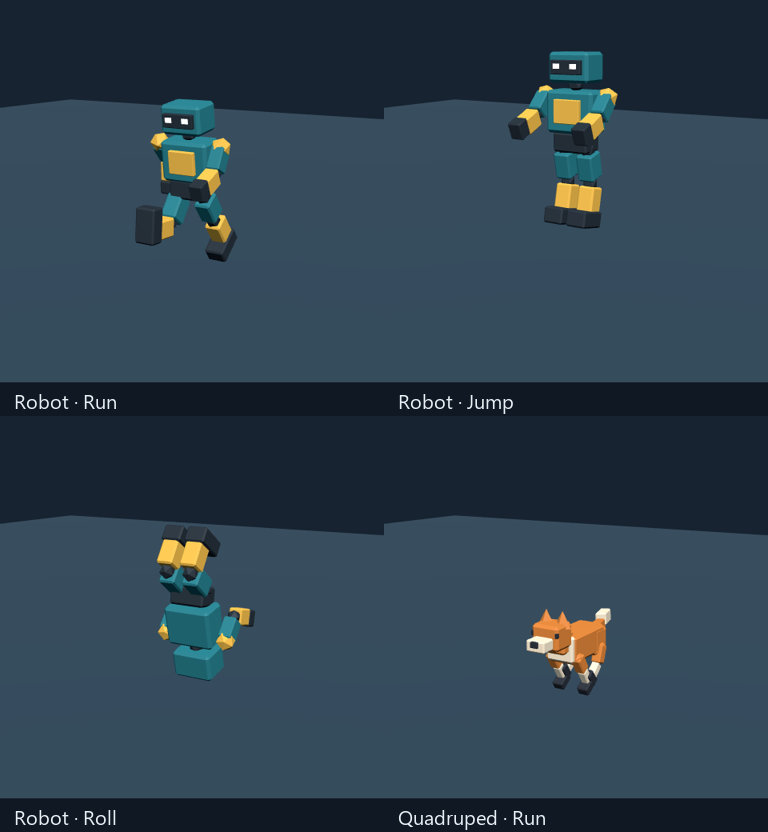
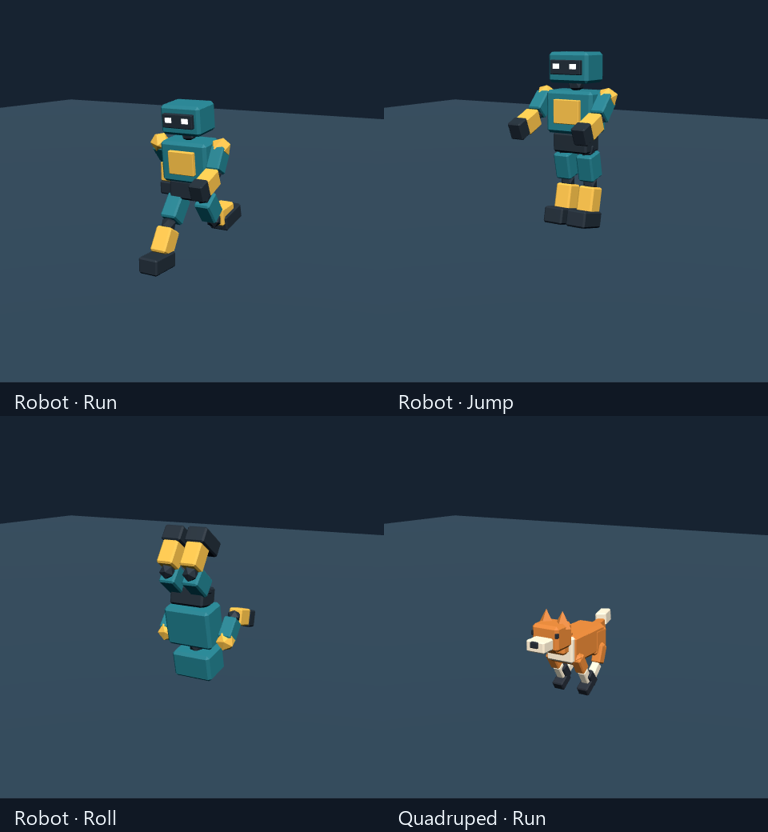
Fix robot gait knee flexion and ankle pitch (#2)

Changed region(s): [[0.1562, 0.2188, 0.3125, 0.3438]]

diff --git a/plugins/character-studio/skills/character-studio/scripts/build_robot.py b/plugins/character-studio/skills/character-studio/scripts/build_robot.py
@@ -196,8 +196,15 @@ def animate(rig, height):
                 rig.pose.bones['Spine'].rotation_euler.x = .12 if running else 0
                 for direction, side in ((1, 'L'), (-1, 'R')):
                     swing = direction * math.sin(phase)
-                    rig.pose.bones['UpperLeg.' + side].rotation_euler.x = (.70 if running else .40) * swing
-                    rig.pose.bones['LowerLeg.' + side].rotation_euler.x = -(1.05 if running else .48) * max(0, -swing)
+                    hip = (.70 if running else .40) * swing
+                    # These down-facing leg bones flex the knee backward at positive local X.
+                    # Recover the trailing heel; extend the leading leg without hyperextension.
+                    knee = (.12 if running else .06) + (.95 if running else .42) * max(0, swing)
+                    rig.pose.bones['UpperLeg.' + side].rotation_euler.x = hip
+                    rig.pose.bones['LowerLeg.' + side].rotation_euler.x = knee
+                    # The forward-facing foot bone has the opposite local X axis.
+                    # Counter the shin pitch, retaining a small toe-down recovery pose.
+                    rig.pose.bones['Foot.' + side].rotation_euler.x = hip + knee - (.25 if running else .10) * max(0, swing)
                     rig.pose.bones['UpperArm.' + side].rotation_euler.x = -(.65 if running else .28) * swing
                     rig.pose.bones['LowerArm.' + side].rotation_euler.x = -.70 if running else -.10
             elif name == 'Jump':

diff --git a/README.md b/README.md
@@ -23,7 +23,7 @@ codex plugin add character-studio@character-studio
 
 Start a new Codex chat after installation. If the skills are missing, restart the app. If your CLI supports marketplace registration but has no `plugin add` command, register the marketplace, then select **Character Studio — Community** in the app's Plugins Directory and install **Character Studio**.
 
-For a pinned release, register the marketplace with `--ref v0.3.0` instead of `--ref main`.
+For a pinned release, register the marketplace with `--ref v0.3.1` instead of `--ref main`.
 
 The marketplace layout and GitHub registration follow [OpenAI's plugin packaging documentation](https://developers.openai.com/plugins/build/plugins). GitHub distribution is separate from listing in OpenAI's public Plugins Directory.
 
@@ -92,12 +92,13 @@ This registers your checkout under the same community marketplace name. Edit `pl
 
 ## Validation
 
-Version 0.3.0 was tested on Windows with Blender 4.5.14 LTS and Three.js 0.186.1:
+Version 0.3.1 was tested on Windows with Blender 4.5.14 LTS and Three.js 0.186.1:
 
 - Both skills passed Codex's skill validator.
 - Robot GLB: 1,016 triangles, 16 bones, Idle/Walk/Run/Jump/Roll; zero Khronos glTF Validator errors or warnings.
 - Fox GLB: 1,184 triangles, 19 bones, Idle/Walk/Run/Jump; zero Khronos glTF Validator errors or warnings. Dog, cat and static-cat generation were also exercised.
 - New animation checks covered finite skinned vertices, loop boundaries, faster Run cadence, Jump lift/landing, full Roll rotation, ground clearance and one-shot holding. Both GLBs were rendered in headless Edge at desktop/mobile sizes with zero console errors.
+- The 0.3.1 gait regression checks both knees, leading ankles and foot pitch at 65 samples per side in Walk/Run. It rejects the 0.3.0 hyperextended gait and passes the corrected animation.
 - The unchanged effects workflow was previously checked with Blender aura/sparks/fire/smoke renders, runtime lifecycle/cap/anchor/cue tests, and headless Edge rendering with reduced motion.
 
 This validation covers the supplied starters. Review and test each new character in its destination runtime. Walk/Run have no foot/paw locking, the starters do not auto-rig organic meshes, and the Python GLB inspector is not a complete glTF validator.

diff --git a/CONTRIBUTING.md b/CONTRIBUTING.md
@@ -7,3 +7,5 @@ Keep marketplace paths relative to the repository root and keep supporting resou
 For script changes, run the affected starter with the supported Blender version or a compatible Three.js project. Inspect actual renders for visual changes. Check exported clip names and bones rather than assuming Blender names remain unchanged. For runtime effects, check bounded allocations, animation timing, attachment offsets, reduced motion and disposal.
 
 For a release, update `plugins/character-studio/.codex-plugin/plugin.json`, update the changelog and install instructions, verify both skills and the marketplace entry, then tag the commit. Retain the MIT license and attribution.
+
+For robot gait changes, generate a fresh GLB with `build_robot.py`, run `npm install` in the repository, then `npm run test:gait -- /absolute/path/to/Scout.glb`. This maintenance-only test checks both knees and ankles throughout Walk/Run. It does not install runtime dependencies for plugin users; keep visual review alongside the numerical checks.

diff --git a/CHANGELOG.md b/CHANGELOG.md
@@ -1,5 +1,11 @@
 # Changelog
 
+## 0.3.1
+
+- Corrected robot Run/Walk knee flexion: the recovering leg folds backward and the leading leg extends with a small positive knee bend.
+- Added ankle counter-rotation to keep the forward foot readable instead of turning its sole toward the camera.
+- Updated the motion preview and checked both legs throughout the gait cycle.
+
 ## 0.3.0
 
 - Robot starter now includes Run, Jump and Roll alongside Idle and Walk.
